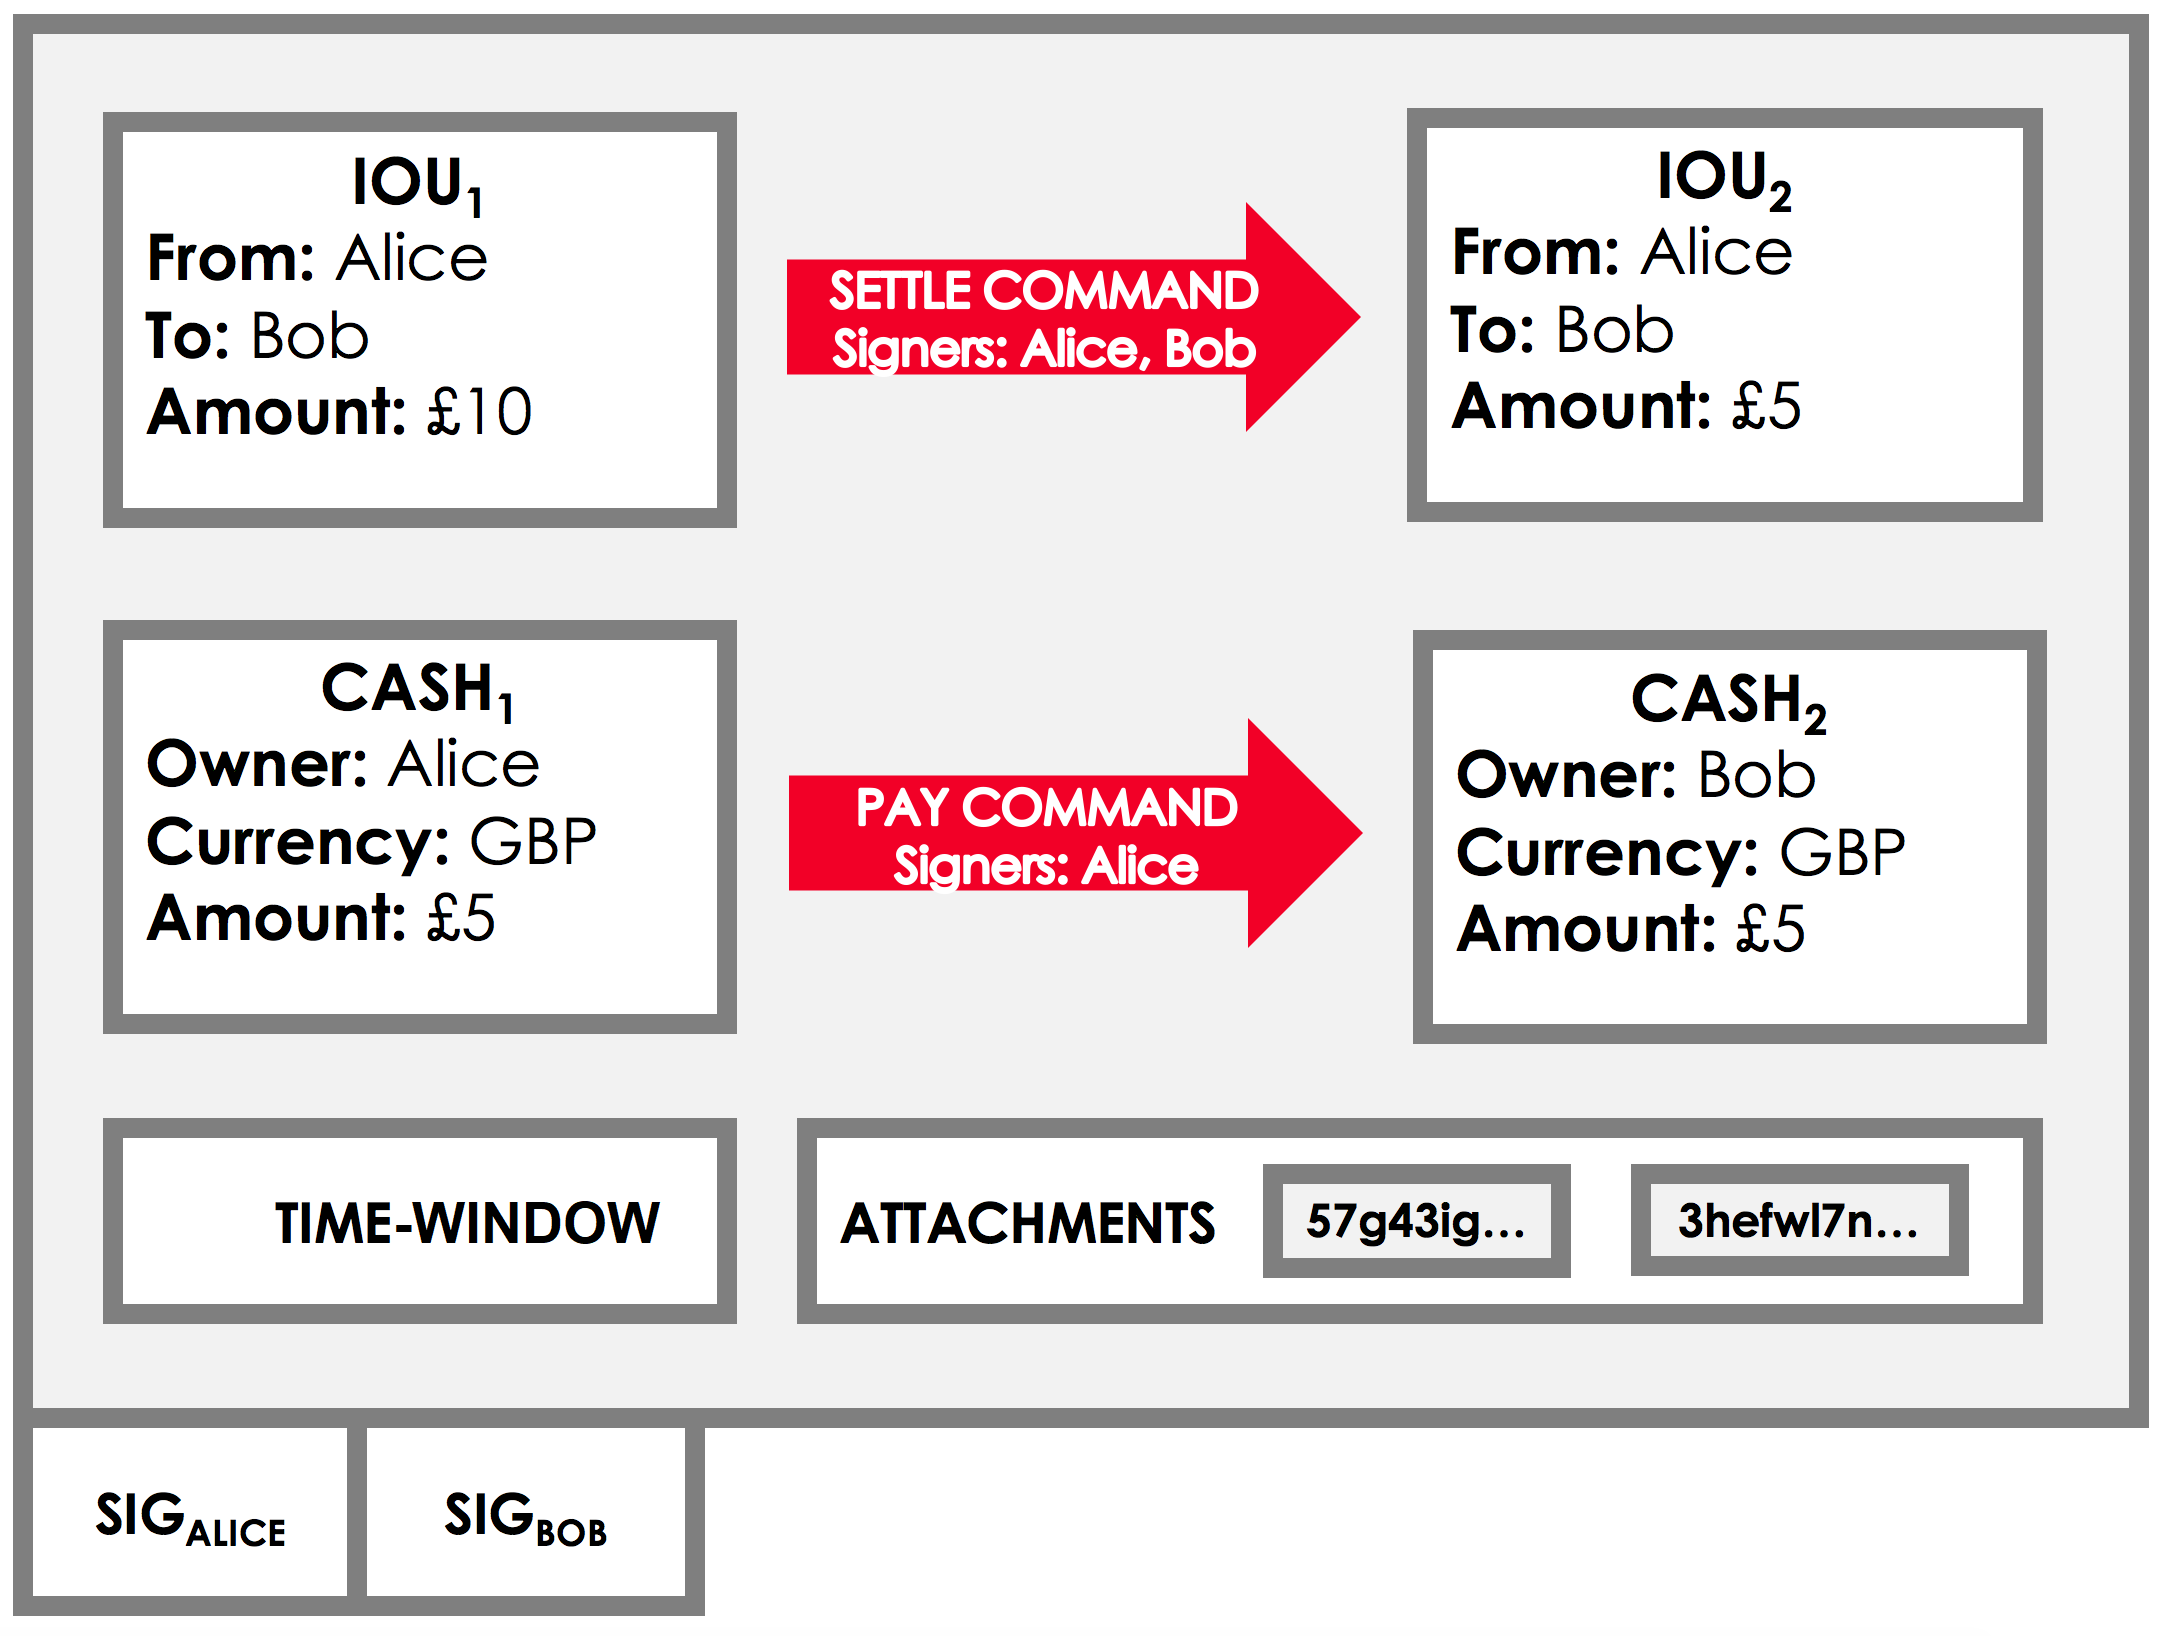
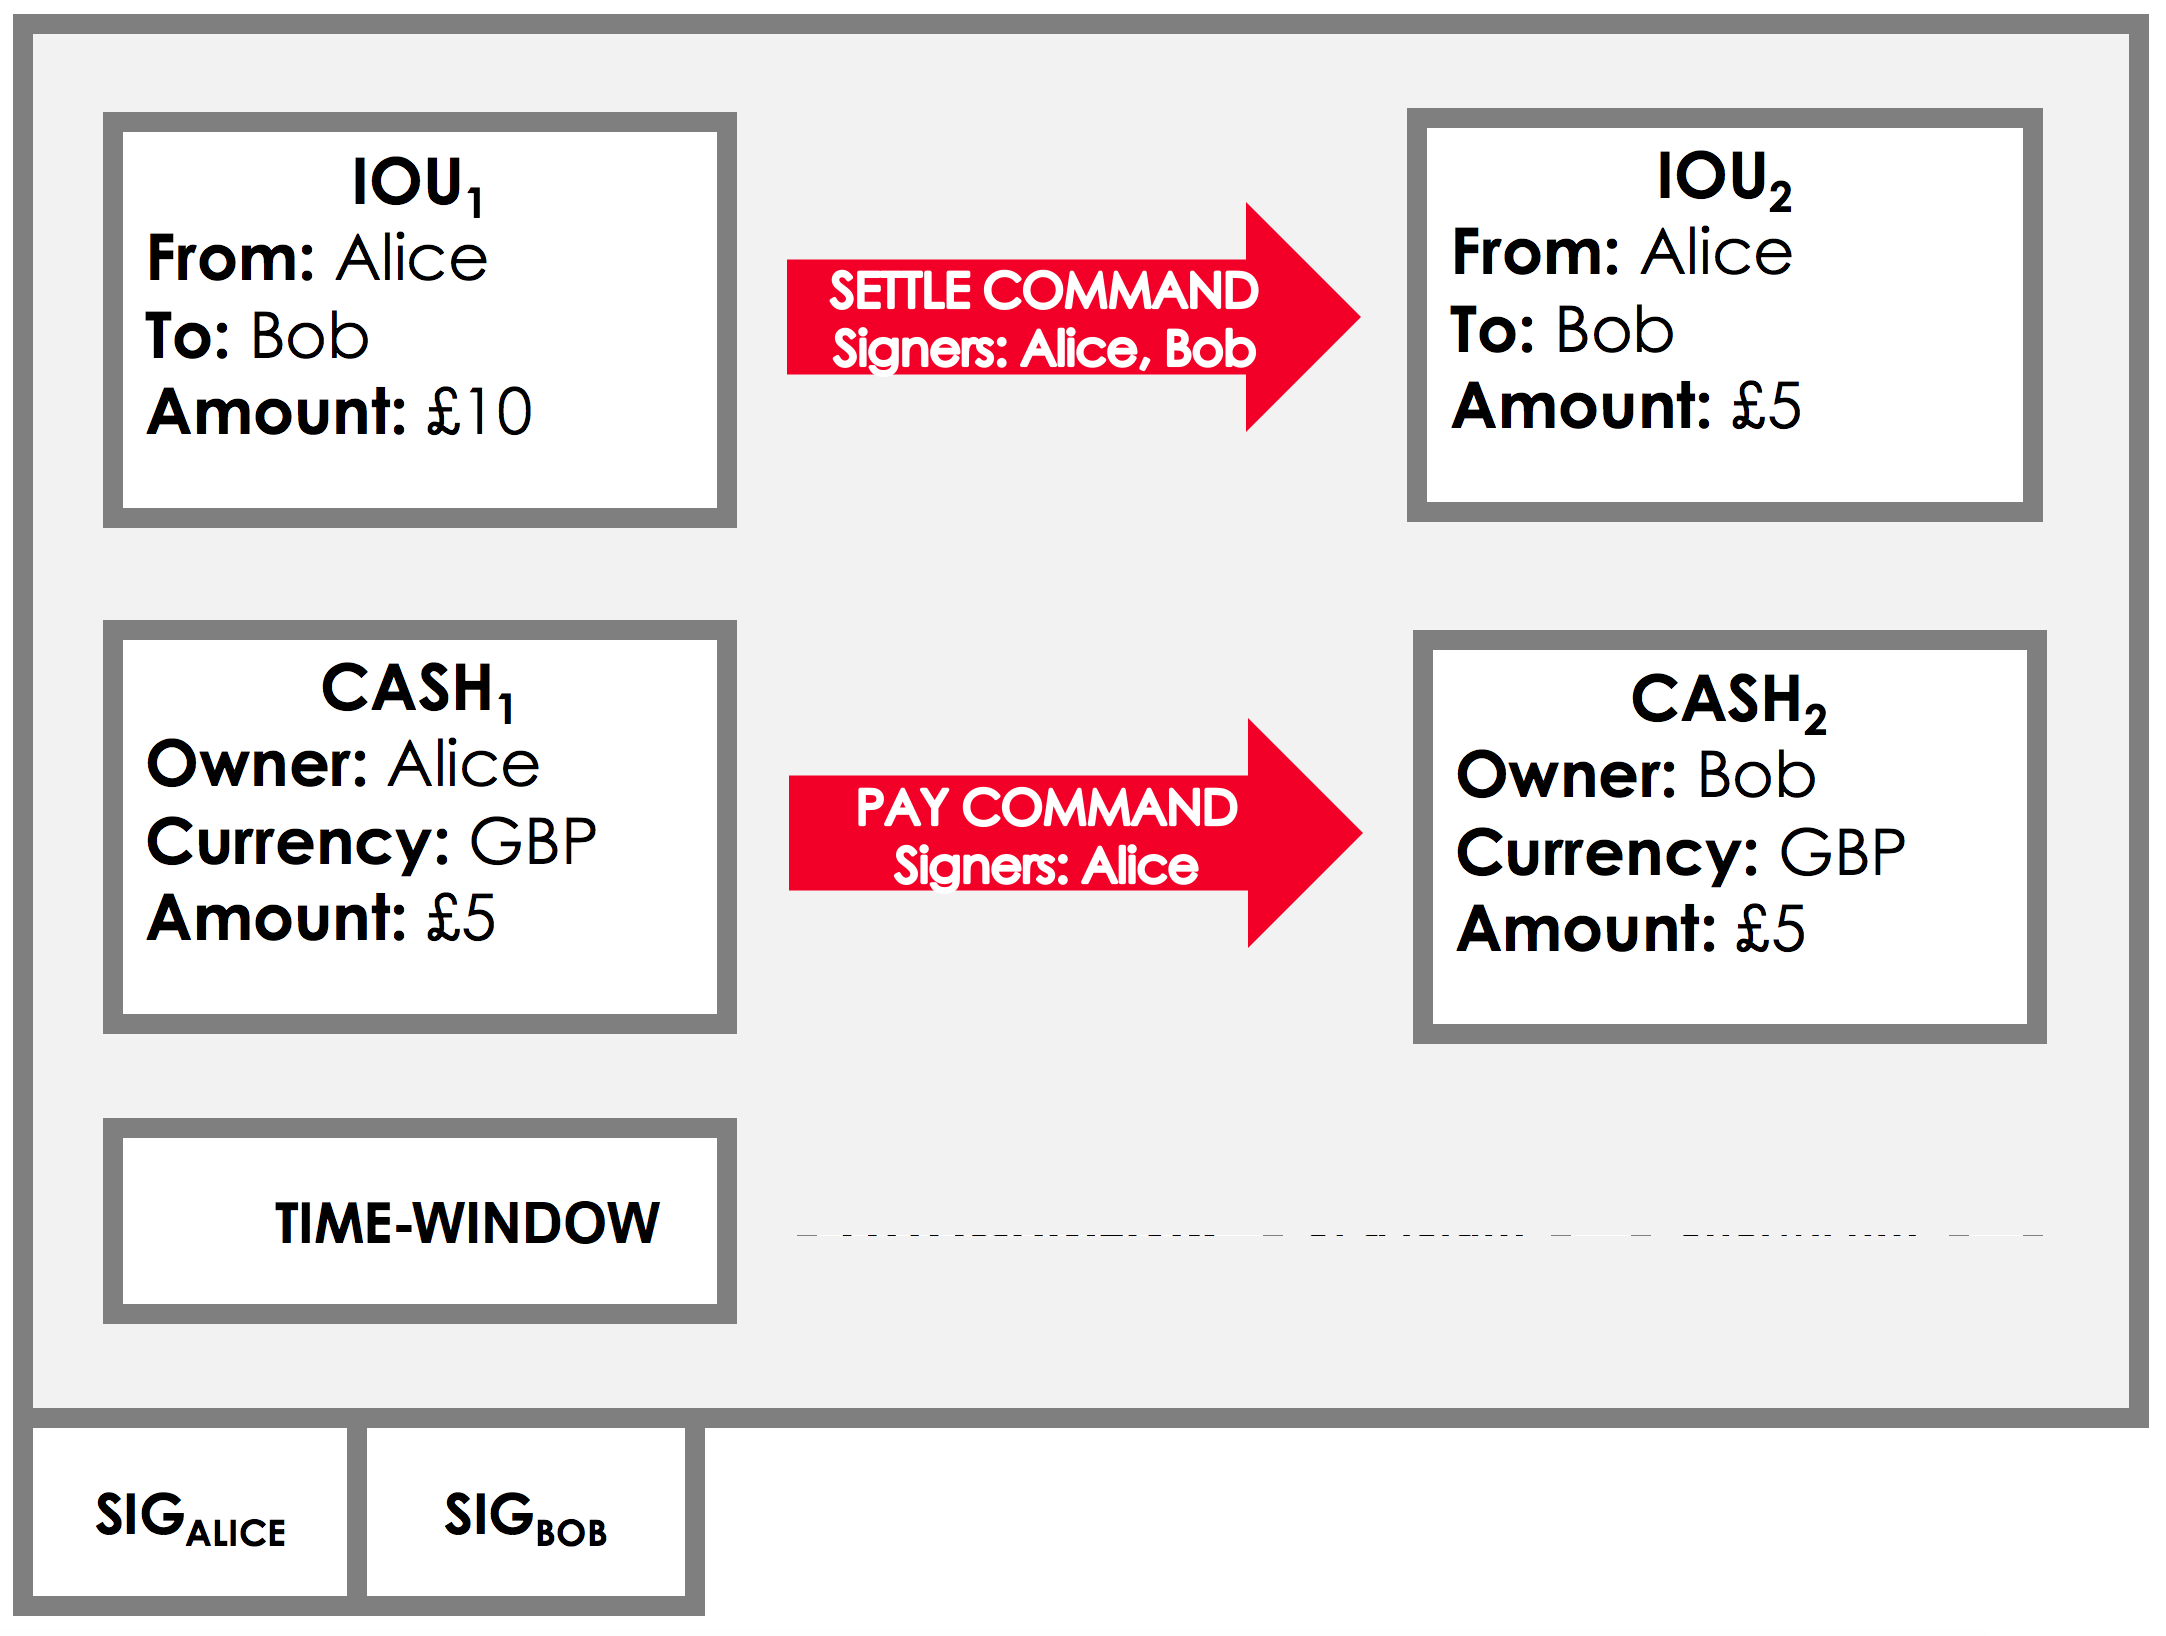
remove attachments

Changed region(s): [[0.3403, 0.6858, 0.9589, 0.8105]]

diff --git a/content/en/platform/corda/5.0/developing-applications/ledger/transactions/_index.md b/content/en/platform/corda/5.0/developing-applications/ledger/transactions/_index.md
@@ -98,15 +98,10 @@ Some states need to be referred to by the contracts of other input or output sta
 As well as input states and output states, transactions contain:
 
 * [Commands](#commands)
-* [Attachments](#attachments)
 * [Time windows](#time-windows)
 * [A notary](#notary)
 
-{{< note >}}
-Attachments will be implemented in a future release.
-{{< /note >}}
-
-For example, suppose Alice uses $5 cash to pay off $5 of an IOU with Bob. This transaction contains a settlement command which reduces the amount outstanding on the IOU, and a payment command which changes the ownership of $5 from Alice to Bob. It also has two supporting attachments, and is notarized by `NotaryClusterA` if the notary pool receives it within the specified time window:
+For example, suppose Alice uses $5 cash to pay off $5 of an IOU with Bob. This transaction contains a settlement command which reduces the amount outstanding on the IOU, and a payment command which changes the ownership of $5 from Alice to Bob. It is notarized by `NotaryClusterA` if the notary pool receives it within the specified time window:
 
 {{<
   figure

diff --git a/content/en/platform/corda/5.0/developing-applications/ledger/smart-contracts/_index.md b/content/en/platform/corda/5.0/developing-applications/ledger/smart-contracts/_index.md
@@ -40,7 +40,7 @@ Each transaction state specifies a contract type. The contract specified takes t
 
 The contract code can:
 
-* Check the number of inputs, outputs, commands, or attachments.
+* Check the number of inputs, outputs, or commands.
 * Check that the [time window]({{< relref "../time-windows/_index.md" >}}) matches the expectations for the given transaction. For example, that a point in time mentioned in one of the states (inputs, outputs, or references) occurs within the time window.
 * Check the contents of all components.
 * Evaluate looping constructs, variable assignments, function calls, helper methods, and other aspects of the transaction code.

diff --git a/content/en/platform/corda/5.0/developing-applications/ledger/notaries/_index.md b/content/en/platform/corda/5.0/developing-applications/ledger/notaries/_index.md
@@ -32,7 +32,6 @@ The non-validating notary protocol maintains a degree of privacy by only reveali
 | Input states                      | References only [1]       |
 | Output states                     | Number of states only [2] |
 | Commands (with signer identities) | Hidden                    |
-| Attachments                       | Hidden                    |
 | Time window                       | Fully visible             |
 | Notary identity                   | Fully visible             |
 | Signatures                        | Hidden                    |
